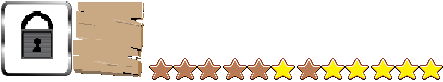
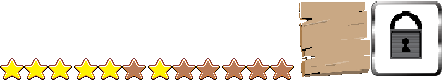
change star showing position on Level Select Page

diff --git a/demo_10/js/LevelSelect.js b/demo_10/js/LevelSelect.js
@@ -173,8 +173,8 @@ DinoEggs.LevelSelect.prototype = {
 		IconGroup.yOrg = ypos;
 
 		// determine background frame
-		var frame = 0;
-		if (isLocked == false) {frame = 1};
+		var frame = 5;
+		if (isLocked == false) {frame = 4};
 		
 		// add background
 		var icon1 = this.game.add.sprite(0, 0, 'levelIcons', frame);
@@ -183,7 +183,7 @@ DinoEggs.LevelSelect.prototype = {
 		// add stars, if needed
 		if (isLocked == false) {
             var txt = this.game.add.text(24, 16,''+levelNumber, {font:"45px Arial"});
-			var icon2 = this.game.add.sprite(0, 0, 'levelIcons', (2+stars));
+			var icon2 = this.game.add.sprite(0, 0, 'levelIcons', (3 -stars));
 			
 			IconGroup.add(txt);
 			IconGroup.add(icon2);
